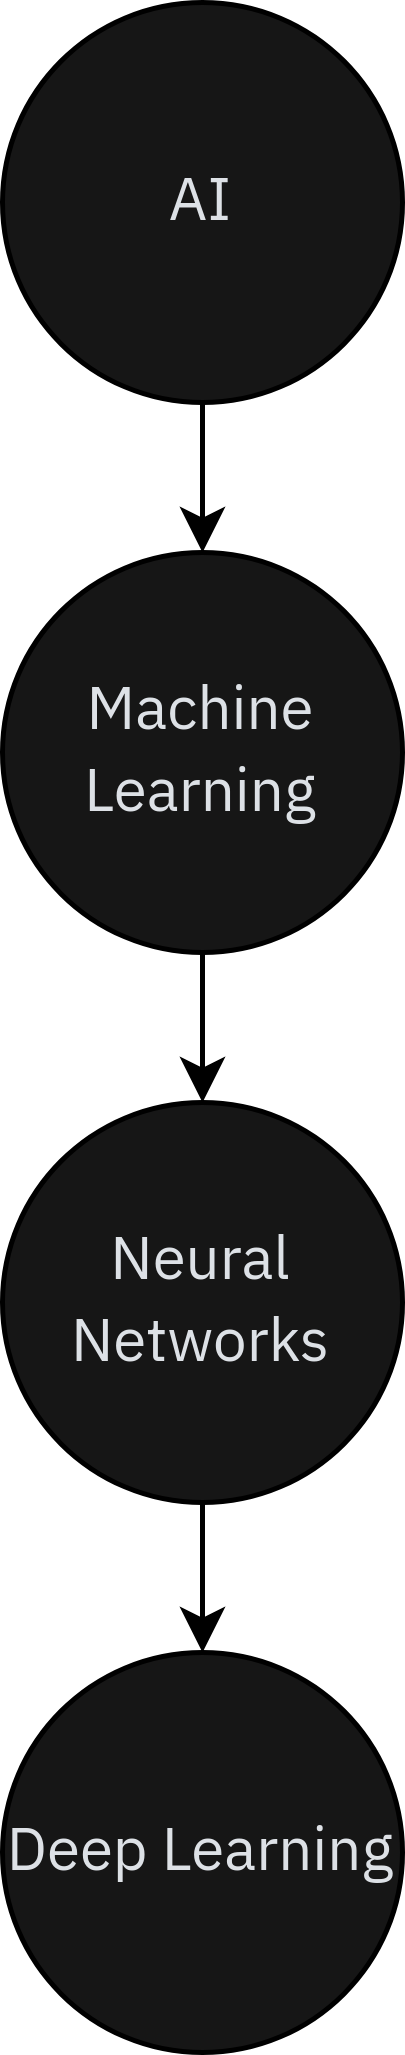
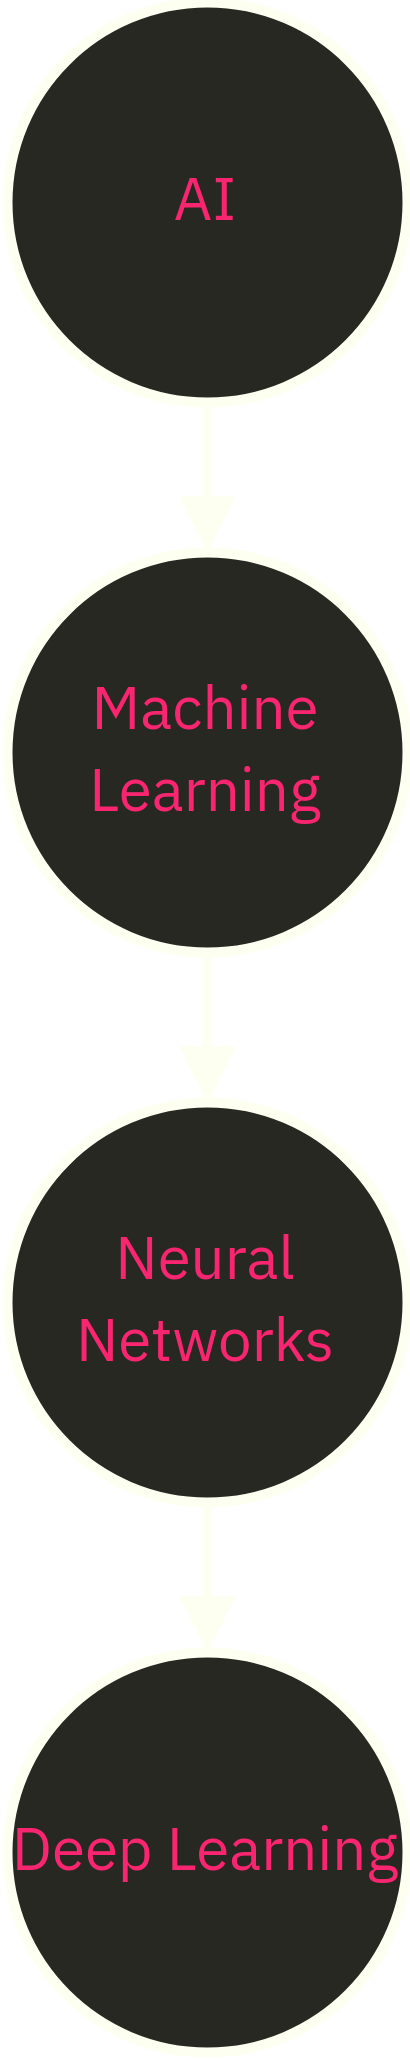
Change to Dark Theme

diff --git a/presentation.md b/presentation.md
@@ -1,5 +1,5 @@
-[comment]: # (THEME = white)
-[comment]: # (CODE_THEME = base16/zenburn)
+[comment]: # (THEME = black)
+[comment]: # (CODE_THEME = monokai)
 [comment]: # (controls: true)
 [comment]: # (keyboard: true)
 [comment]: # (markdown: { smartypants: true })
@@ -20,18 +20,18 @@ Yannick Hutter | FHGR Chur |
 [comment]: # (!!!)
 
 ### Programmierung
-* Zu Beginn war das einfach `Programmieren`. Ein Programmierer schrieb ein Programm, welches mithilfe von Inputdaten (Parameter etc.) einen bestimmten Output (Ergebnis) erzeugte. So wurde für **jede Aufgabenstellung ein bestimmtes Programm** geschrieben.
+Zu Beginn war das einfach `Programmieren`. Ein Programmierer schrieb ein Programm, welches mithilfe von Inputdaten (Parameter etc.) einen bestimmten Output (Ergebnis) erzeugte. So wurde für **jede Aufgabenstellung ein bestimmtes Programm** geschrieben.
 
 [comment]: # (!!!)
 
 ### Machine Learning
-* Machine Learning ist der nächste Schritt. Hierzu werden die entsprechenden Parameter (Features) von einer Person extrahiert und anschliessend einem **Modell** zur Verfügung gestellt, welches den gewünschten Output aufgrund von **bestehenden Daten**  vorhersagt.
+Machine Learning ist der nächste Schritt. Hierzu werden die entsprechenden Parameter (Features) von einer Person extrahiert und anschliessend einem **Modell** zur Verfügung gestellt, welches den gewünschten Output aufgrund von **bestehenden Daten**  vorhersagt.
 
 
 [comment]: # (!!!)
 
 ### Deep Learning
-* Deep Learning ist die nächste Evolution. Features werden direkt in das Netz gegeben, dieses zieht automatisch die relevanten Features raus und produziert den gewünschten Output. Deshalb ist hier **keine Unterstützung des Menschen notwendig**.
+Deep Learning ist die nächste Evolution. Features werden direkt in das Netz gegeben, dieses zieht automatisch die relevanten Features raus und produziert den gewünschten Output. Deshalb ist hier **keine Unterstützung des Menschen notwendig**.
 
 [comment]: # (!!!)
 
@@ -58,8 +58,7 @@ Yannick Hutter | FHGR Chur |
 ### Syntax vs. Semantik
 * Syntax beschreibt die **Struktur der Daten** (XML, RDF)
 * Semantik beschreibt die **Bedeutung der Daten** (RDFS, OWL)
-
-Sind Voraussetzung für **Interoperabilität**, d.h. gemeinsame Syntax (Grammatik) und gemeinsames Verständnis (Ontologie)
+* Sind Voraussetzung für **Interoperabilität**, d.h. gemeinsame Syntax (Grammatik) und gemeinsames Verständnis (Ontologie)
 
 [comment]: # (!!!)
 
@@ -198,7 +197,7 @@ Sind Voraussetzung für **Interoperabilität**, d.h. gemeinsame Syntax (Grammati
 [comment]: # (!!!)
 
 ### Darstellung von Metadaten als RDF Graph
-![Lösung RDF Aufgabe 1](./media/solution_rdf_homework_01.png) <!-- .element: style="height: 20vh;" -->
+![Lösung RDF Aufgabe 1](./media/solution_rdf_homework_01.png) 
 
 [comment]: # (!!!)
 
@@ -234,7 +233,7 @@ Sind Voraussetzung für **Interoperabilität**, d.h. gemeinsame Syntax (Grammati
 [comment]: # (!!!)
 
 ### Anonyme Ressourcen als RDF Graph
-![Lösung RDF Aufgabe 2](./media/solution_rdf_homework_02.png) <!-- .element: style="height: 20vh;" -->
+![Lösung RDF Aufgabe 2](./media/solution_rdf_homework_02.png)
 
 [comment]: # (!!!)
 
